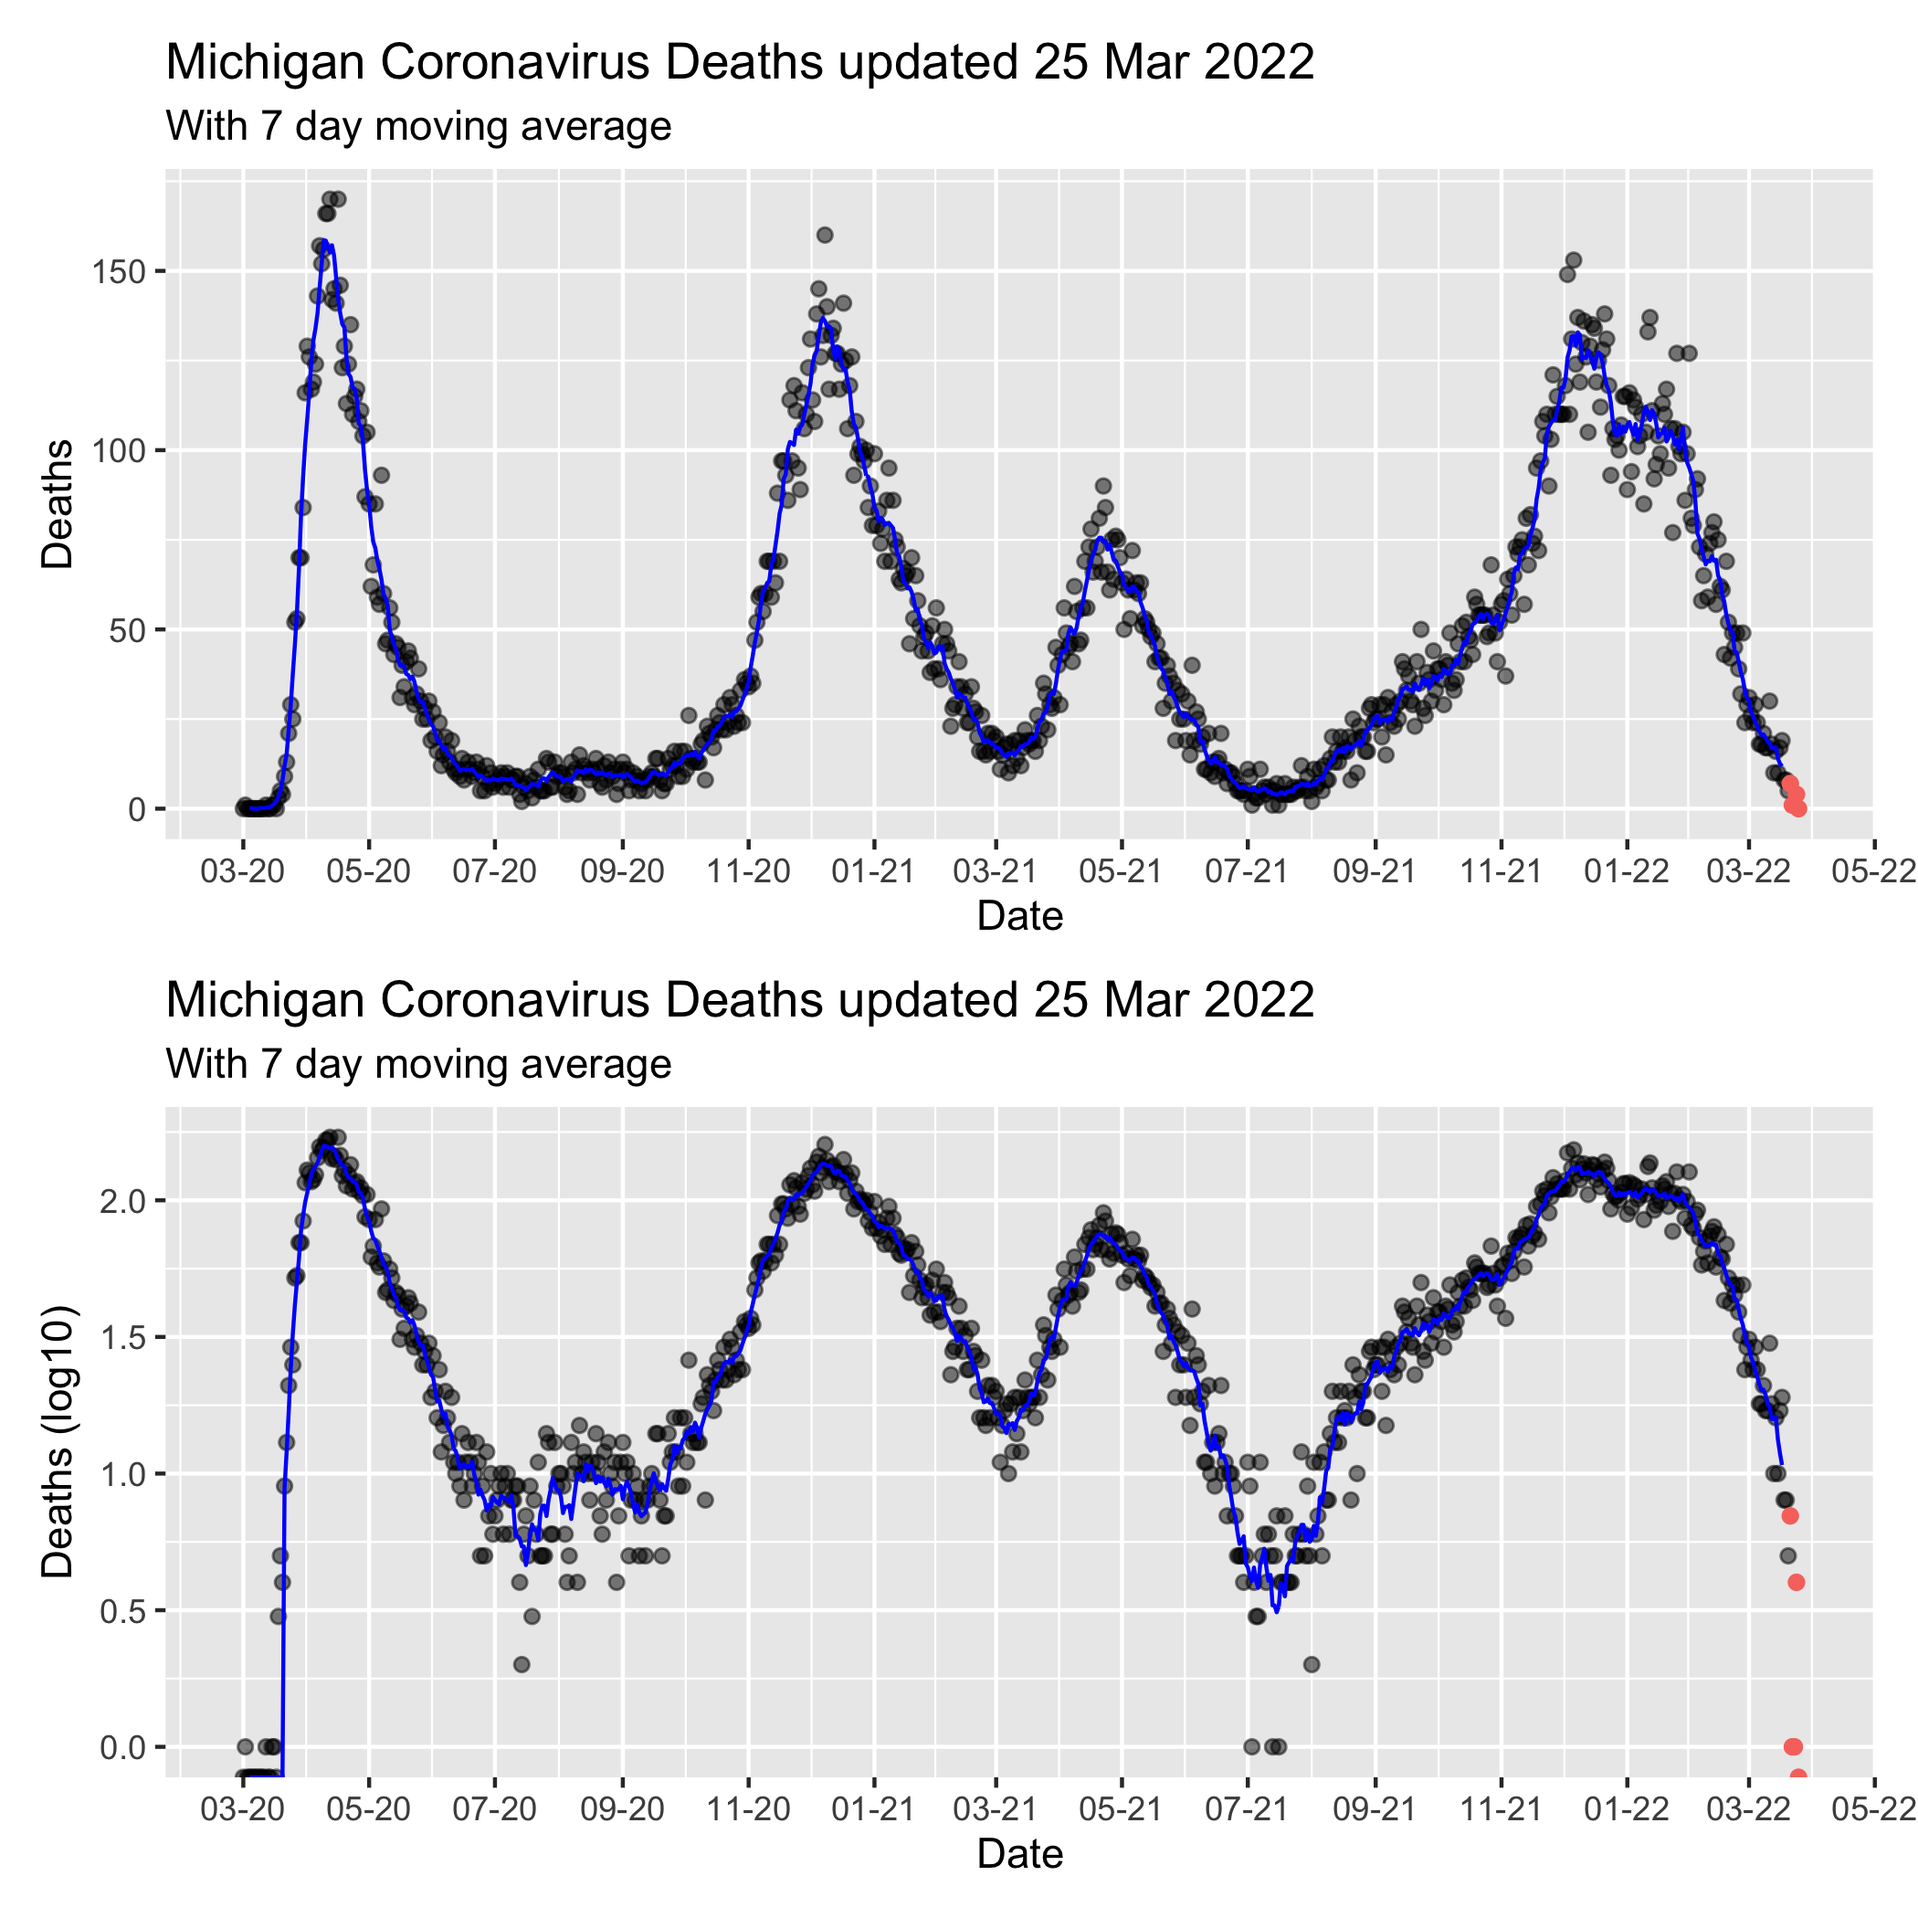
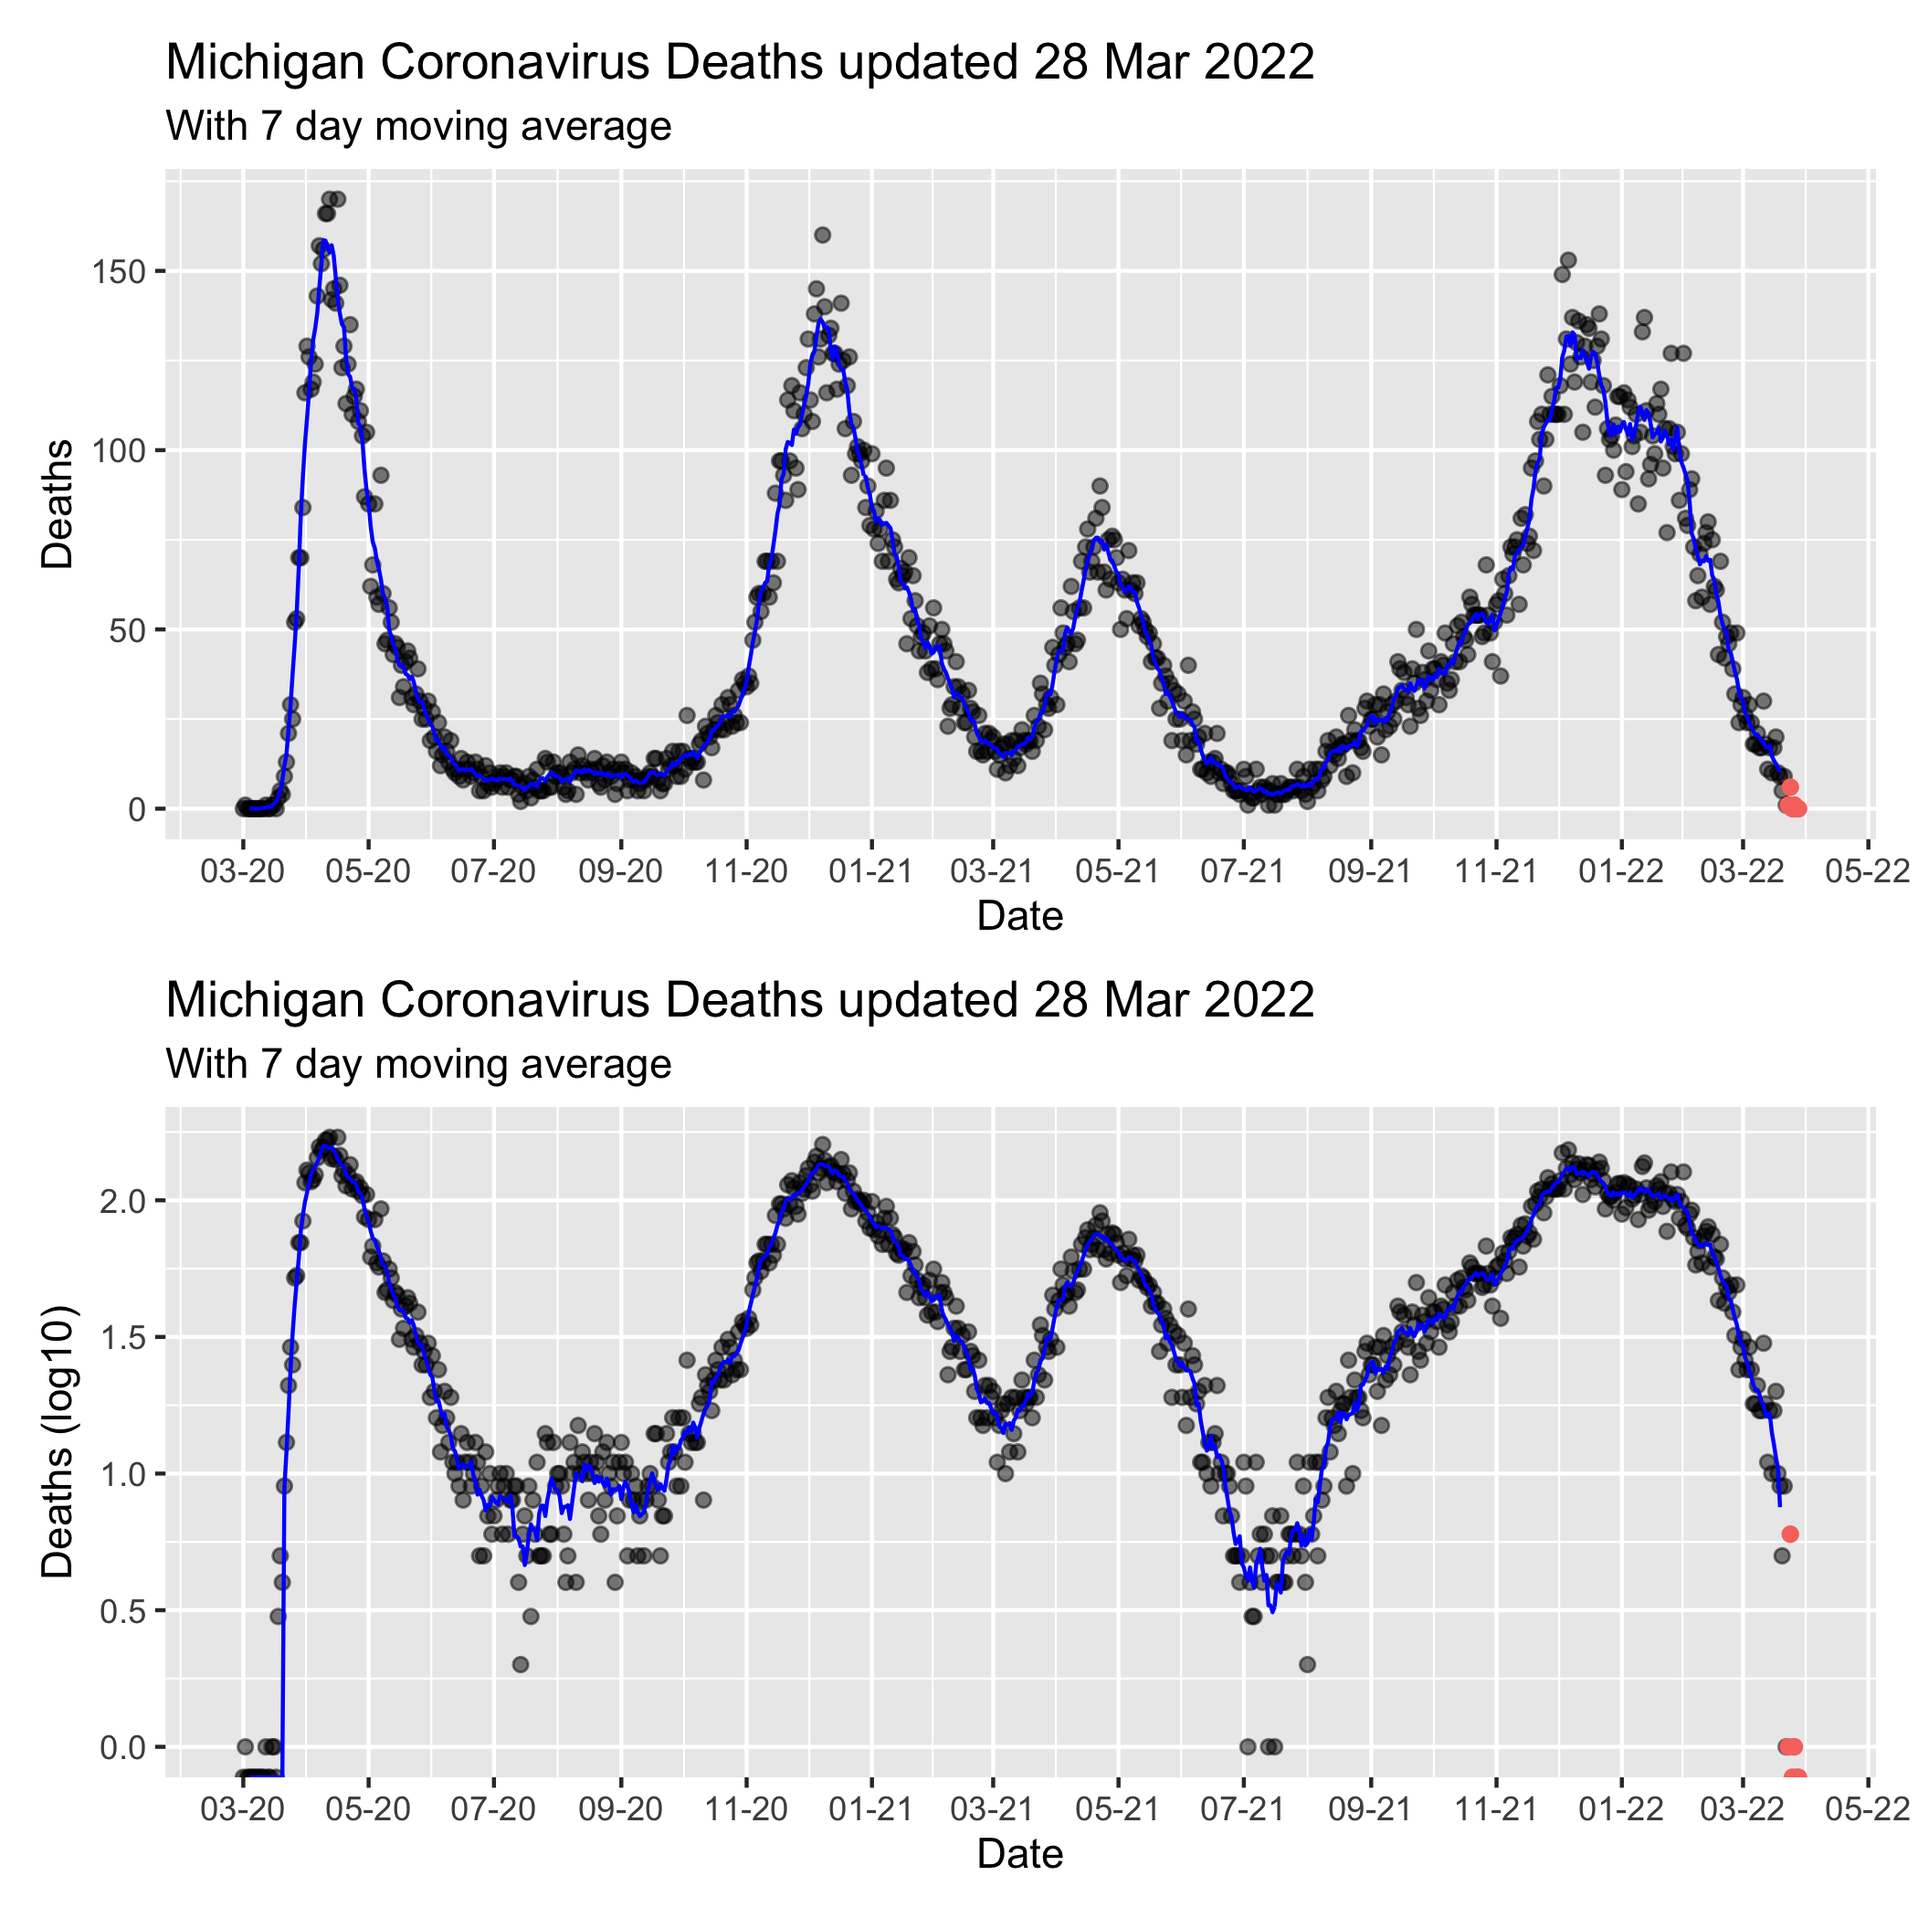
Mar-29 2022 12:39 update

diff --git a/MiCorona.md b/MiCorona.md
@@ -1,7 +1,7 @@
 Michigan COVID Data
 ================
 Adam D. DenHaan
-Mar 27, 2022
+Mar 29, 2022
 
 Get link for data:
 
@@ -49,11 +49,11 @@ mi_data.head()
     ## 4  Alcona 2020-03-05   Confirmed    0.0     0.0               0.0   
     ## 
     ##    Deaths.Cumulative                       Updated  
-    ## 0                0.0 2022-03-25 13:06:16.143099904  
-    ## 1                0.0 2022-03-25 13:06:16.143099904  
-    ## 2                0.0 2022-03-25 13:06:16.143099904  
-    ## 3                0.0 2022-03-25 13:06:16.143099904  
-    ## 4                0.0 2022-03-25 13:06:16.143099904
+    ## 0                0.0 2022-03-28 13:08:37.936100096  
+    ## 1                0.0 2022-03-28 13:08:37.936100096  
+    ## 2                0.0 2022-03-28 13:08:37.936100096  
+    ## 3                0.0 2022-03-28 13:08:37.936100096  
+    ## 4                0.0 2022-03-28 13:08:37.936100096
 
 ``` python
 max_date = max(mi_data["Updated"])
@@ -135,5 +135,5 @@ viz_function(mi_cases_by_day_exclusive, mi_cases_by_day_last4, Date, Deaths, ver
 
 ![](MiCorona_files/figure-gfm/viz2-1.png)<!-- -->
 
-Note that the last 5 days of data have been colored red on the graph, as
+Note that the last 6 days of data have been colored red on the graph, as
 they frequently change as more information becomes available.
